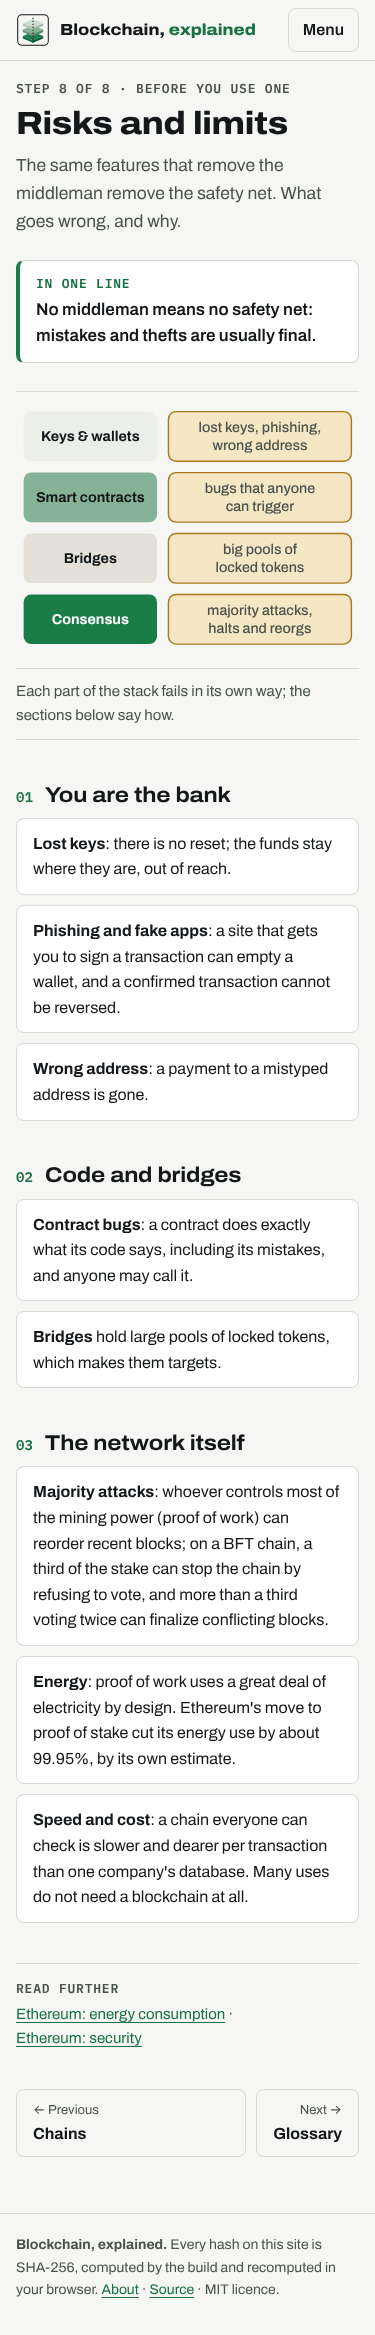
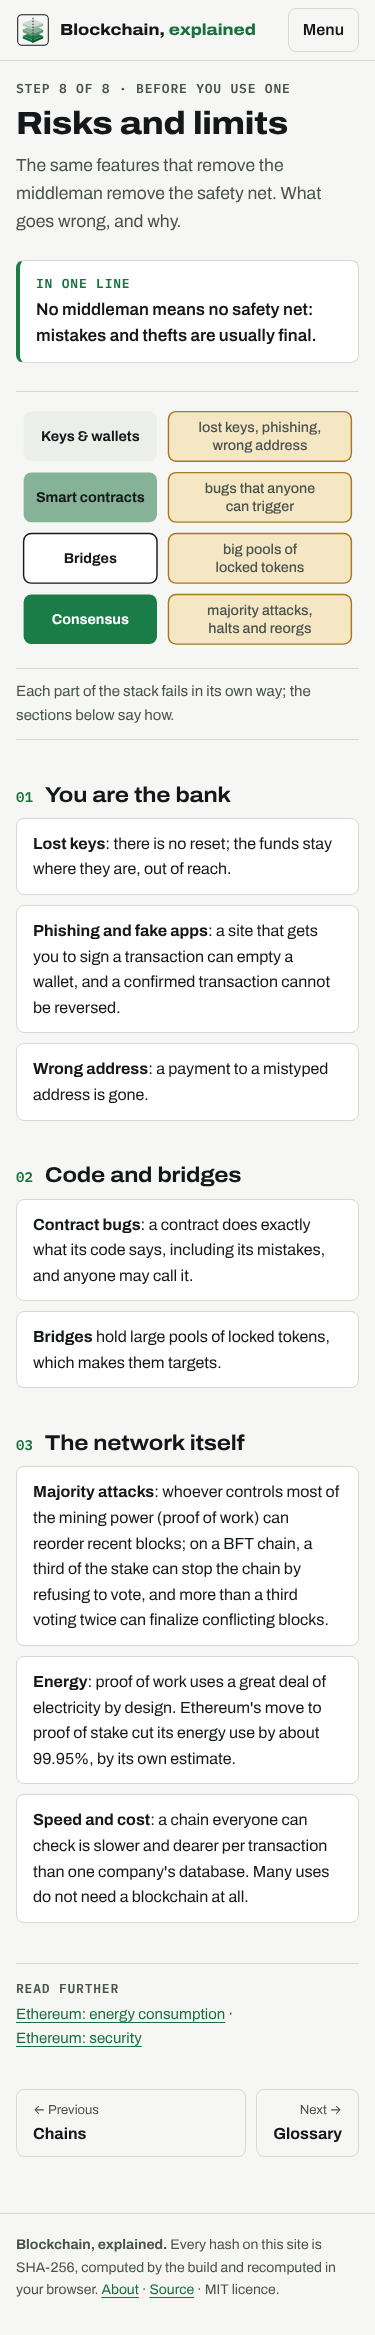
R8: all three seats pass; polish; stop test
Claude-Session: https://claude.ai/code/session_01Sp4uVaSfPTnARaHZUQe5XT

Changed region(s): [[0.0587, 0.2158, 0.44, 0.2775]]

diff --git a/site/index.html b/site/index.html
@@ -31,7 +31,7 @@
     <a class="start" href="blockchain-basics.html">Start with the basics →</a>
   </div>
   <svg class="hero-svg hero-wide" viewBox="0 0 780 560" role="group" aria-labelledby="hw-t"><title id="hw-t">Two blockchains, each a stack of four layers on one bedrock, joined by a bridge</title><defs><marker id="ah" viewBox="0 0 10 10" refX="8" refY="5" markerWidth="6" markerHeight="6" orient="auto-start-reverse"><path d="M0,0 L10,5 L0,10 z" class="ahead"/></marker></defs><a href="blockchain-basics.html" class="bedrock" aria-label="The bedrock: blocks, hashes, the chain and Merkle trees. Blockchain basics"><polygon points="40,446 740,446 760,504 20,504" class="br"/><text x="390" y="480" text-anchor="middle" class="br-t">Bedrock: blocks, hashes and Merkle trees → Basics</text></a><a href="consensus.html" class="slab s-consensus" aria-label="Chain A, Bottom level: Consensus. Many computers agree on one history: proof of work, proof of stake and BFT voting."><polygon points="85,380 205,426 205,444 85,398" class="sl-l"/><polygon points="205,426 325,380 325,398 205,444" class="sl-r"/><polygon points="85,380 205,334 325,380 205,426" class="sl-t"/><text class="sl-name" x="205" y="399.32" text-anchor="middle">Consensus</text></a><a href="contracts.html" class="slab s-execution" aria-label="Chain A, Second level: Smart contracts. Programs stored on the chain, run by every node with the same result."><polygon points="85,300 205,346 205,364 85,318" class="sl-l"/><polygon points="205,346 325,300 325,318 205,364" class="sl-r"/><polygon points="85,300 205,254 325,300 205,346" class="sl-t"/><text class="sl-name" x="205" y="319.32" text-anchor="middle">Smart contracts</text></a><a href="layer2.html" class="slab s-layer2" aria-label="Chain A, Third level: Layer 2. Rollups and channels: work done off the chain, settled on it."><polygon points="85,220 205,266 205,284 85,238" class="sl-l"/><polygon points="205,266 325,220 325,238 205,284" class="sl-r"/><polygon points="85,220 205,174 325,220 205,266" class="sl-t"/><text class="sl-name" x="205" y="239.32" text-anchor="middle">Layer 2</text></a><a href="keys.html" class="slab s-apps" aria-label="Chain A, Top level: Keys &amp; wallets. Keys that sign transactions, and the apps people use."><polygon points="85,140 205,186 205,204 85,158" class="sl-l"/><polygon points="205,186 325,140 325,158 205,204" class="sl-r"/><polygon points="85,140 205,94 325,140 205,186" class="sl-t"/><text class="sl-name" x="205" y="159.32" text-anchor="middle">Keys &amp; wallets</text></a><a href="consensus.html" class="slab s-consensus" aria-label="Chain B, Bottom level: Consensus. Many computers agree on one history: proof of work, proof of stake and BFT voting."><polygon points="455,380 575,426 575,444 455,398" class="sl-l"/><polygon points="575,426 695,380 695,398 575,444" class="sl-r"/><polygon points="455,380 575,334 695,380 575,426" class="sl-t"/><text class="sl-name" x="575" y="399.32" text-anchor="middle">Consensus</text></a><a href="contracts.html" class="slab s-execution" aria-label="Chain B, Second level: Smart contracts. Programs stored on the chain, run by every node with the same result."><polygon points="455,300 575,346 575,364 455,318" class="sl-l"/><polygon points="575,346 695,300 695,318 575,364" class="sl-r"/><polygon points="455,300 575,254 695,300 575,346" class="sl-t"/><text class="sl-name" x="575" y="319.32" text-anchor="middle">Smart contracts</text></a><a href="layer2.html" class="slab s-layer2" aria-label="Chain B, Third level: Layer 2. Rollups and channels: work done off the chain, settled on it."><polygon points="455,220 575,266 575,284 455,238" class="sl-l"/><polygon points="575,266 695,220 695,238 575,284" class="sl-r"/><polygon points="455,220 575,174 695,220 575,266" class="sl-t"/><text class="sl-name" x="575" y="239.32" text-anchor="middle">Layer 2</text></a><a href="keys.html" class="slab s-apps" aria-label="Chain B, Top level: Keys &amp; wallets. Keys that sign transactions, and the apps people use."><polygon points="455,140 575,186 575,204 455,158" class="sl-l"/><polygon points="575,186 695,140 695,158 575,204" class="sl-r"/><polygon points="455,140 575,94 695,140 575,186" class="sl-t"/><text class="sl-name" x="575" y="159.32" text-anchor="middle">Keys &amp; wallets</text></a><a href="bridges.html" class="bridge" aria-label="Bridges: how two chains pass messages and tokens"><path d="M319,306 L461,306" class="br-line" marker-start="url(#ah)" marker-end="url(#ah)"/><rect x="324" y="248" width="132" height="52" rx="26" class="br-pill"/><text x="390" y="279" text-anchor="middle" class="br-pt">Bridges →</text></a><text x="205" y="76" text-anchor="middle" class="ch">Chain A</text><text x="575" y="76" text-anchor="middle" class="ch">Chain B</text><path d="M100,134 L100,440" class="tx" marker-end="url(#ah)"/><text x="6" y="108" class="tx-t">a transaction</text><text x="6" y="128" class="tx-t">travels down</text></svg>
-  <svg class="hero-svg hero-narrow" viewBox="0 0 360 490" role="group" aria-labelledby="hn-t"><title id="hn-t">A blockchain as a stack of four layers on its bedrock, with a bridge to another chain</title><defs><marker id="ahn" viewBox="0 0 10 10" refX="8" refY="5" markerWidth="6" markerHeight="6" orient="auto-start-reverse"><path d="M0,0 L10,5 L0,10 z" class="ahead"/></marker></defs><a href="blockchain-basics.html" class="bedrock" aria-label="The bedrock: blocks, hashes, the chain and Merkle trees. Blockchain basics"><polygon points="8,429 352,429 360,487 0,487" class="br"/><text x="180" y="454" text-anchor="middle" class="br-t">Bedrock: blocks, hashes</text><text x="180" y="475" text-anchor="middle" class="br-t">and Merkle trees → Basics</text></a><a href="consensus.html" class="slab s-consensus" aria-label="Chain A, Bottom level: Consensus. Many computers agree on one history: proof of work, proof of stake and BFT voting."><polygon points="22,355 150,405 150,423 22,373" class="sl-l"/><polygon points="150,405 278,355 278,373 150,423" class="sl-r"/><polygon points="22,355 150,305 278,355 150,405" class="sl-t"/><text class="sl-name" x="150" y="376.0" text-anchor="middle">Consensus</text></a><a href="contracts.html" class="slab s-execution" aria-label="Chain A, Second level: Smart contracts. Programs stored on the chain, run by every node with the same result."><polygon points="22,271 150,321 150,339 22,289" class="sl-l"/><polygon points="150,321 278,271 278,289 150,339" class="sl-r"/><polygon points="22,271 150,221 278,271 150,321" class="sl-t"/><text class="sl-name" x="150" y="292.0" text-anchor="middle">Smart contracts</text></a><a href="layer2.html" class="slab s-layer2" aria-label="Chain A, Third level: Layer 2. Rollups and channels: work done off the chain, settled on it."><polygon points="22,187 150,237 150,255 22,205" class="sl-l"/><polygon points="150,237 278,187 278,205 150,255" class="sl-r"/><polygon points="22,187 150,137 278,187 150,237" class="sl-t"/><text class="sl-name" x="150" y="208.0" text-anchor="middle">Layer 2</text></a><a href="keys.html" class="slab s-apps" aria-label="Chain A, Top level: Keys &amp; wallets. Keys that sign transactions, and the apps people use."><polygon points="22,103 150,153 150,171 22,121" class="sl-l"/><polygon points="150,153 278,103 278,121 150,171" class="sl-r"/><polygon points="22,103 150,53 278,103 150,153" class="sl-t"/><text class="sl-name" x="150" y="124.0" text-anchor="middle">Keys &amp; wallets</text></a><a href="bridges.html" class="bridge" aria-label="Bridges: how chains pass messages and tokens"><path d="M274,275 L296,275" class="br-line" marker-end="url(#ahn)"/><rect x="298" y="249" width="60" height="56" rx="8" class="stub"/><text x="328" y="273" text-anchor="middle" class="stub-t">Chain</text><text x="328" y="293" text-anchor="middle" class="stub-t">B</text><rect x="262" y="313" width="96" height="44" rx="22" class="br-pill"/><text x="310" y="341" text-anchor="middle" class="br-pt">Bridges →</text></a><path d="M80,75 L80,421" class="tx" marker-end="url(#ahn)"/><text x="150" y="39" text-anchor="middle" class="ch">Chain A</text><text x="8" y="51" class="tx-t">a transaction</text><text x="8" y="68" class="tx-t">travels down</text></svg>
+  <svg class="hero-svg hero-narrow" viewBox="0 0 360 490" role="group" aria-labelledby="hn-t"><title id="hn-t">A blockchain as a stack of four layers on its bedrock, with a bridge to another chain</title><defs><marker id="ahn" viewBox="0 0 10 10" refX="8" refY="5" markerWidth="6" markerHeight="6" orient="auto-start-reverse"><path d="M0,0 L10,5 L0,10 z" class="ahead"/></marker></defs><a href="blockchain-basics.html" class="bedrock" aria-label="The bedrock: blocks, hashes, the chain and Merkle trees. Blockchain basics"><polygon points="8,429 352,429 360,487 0,487" class="br"/><text x="180" y="454" text-anchor="middle" class="br-t">Bedrock: blocks, hashes</text><text x="180" y="475" text-anchor="middle" class="br-t">and Merkle trees → Basics</text></a><a href="consensus.html" class="slab s-consensus" aria-label="Chain A, Bottom level: Consensus. Many computers agree on one history: proof of work, proof of stake and BFT voting."><polygon points="22,355 150,405 150,423 22,373" class="sl-l"/><polygon points="150,405 278,355 278,373 150,423" class="sl-r"/><polygon points="22,355 150,305 278,355 150,405" class="sl-t"/><text class="sl-name" x="150" y="376.0" text-anchor="middle">Consensus</text></a><a href="contracts.html" class="slab s-execution" aria-label="Chain A, Second level: Smart contracts. Programs stored on the chain, run by every node with the same result."><polygon points="22,271 150,321 150,339 22,289" class="sl-l"/><polygon points="150,321 278,271 278,289 150,339" class="sl-r"/><polygon points="22,271 150,221 278,271 150,321" class="sl-t"/><text class="sl-name" x="150" y="292.0" text-anchor="middle">Smart contracts</text></a><a href="layer2.html" class="slab s-layer2" aria-label="Chain A, Third level: Layer 2. Rollups and channels: work done off the chain, settled on it."><polygon points="22,187 150,237 150,255 22,205" class="sl-l"/><polygon points="150,237 278,187 278,205 150,255" class="sl-r"/><polygon points="22,187 150,137 278,187 150,237" class="sl-t"/><text class="sl-name" x="150" y="208.0" text-anchor="middle">Layer 2</text></a><a href="keys.html" class="slab s-apps" aria-label="Chain A, Top level: Keys &amp; wallets. Keys that sign transactions, and the apps people use."><polygon points="22,103 150,153 150,171 22,121" class="sl-l"/><polygon points="150,153 278,103 278,121 150,171" class="sl-r"/><polygon points="22,103 150,53 278,103 150,153" class="sl-t"/><text class="sl-name" x="150" y="124.0" text-anchor="middle">Keys &amp; wallets</text></a><a href="bridges.html" class="bridge" aria-label="Bridges: how chains pass messages and tokens"><path d="M274,275 L284,275" class="br-line" marker-end="url(#ahn)"/><rect x="286" y="253" width="72" height="44" rx="8" class="stub"/><text x="322" y="281" text-anchor="middle" class="stub-t">Chain B</text><rect x="272" y="313" width="86" height="44" rx="22" class="br-pill"/><text x="315" y="341" text-anchor="middle" class="br-pt">Bridges →</text></a><path d="M80,75 L80,421" class="tx" marker-end="url(#ahn)"/><text x="150" y="39" text-anchor="middle" class="ch">Chain A</text><text x="8" y="51" class="tx-t">a transaction</text><text x="8" y="68" class="tx-t">travels down</text></svg>
 </section>
 <section class="home-sec" aria-labelledby="guide">
   <h2 id="guide">The guide, in reading order</h2>

diff --git a/site/css/site.css b/site/css/site.css
@@ -368,3 +368,8 @@ h1,h2,.card-t{text-wrap:balance}
 .mn-br{stroke-dasharray:none;stroke-width:1.5}
 .fg-lv.s-bridge{fill:var(--bed);stroke:none}
 .side-toc a{justify-content:flex-start}
+/* R8 polish */
+.fg-lv.s-bridge{fill:var(--panel);stroke:var(--ink);stroke-width:1.5}
+.stub-t{font-size:16px}
+.side-toc ol:not(:has(span)){display:grid;grid-template-columns:repeat(4,44px);gap:6px}
+.side-toc ol:not(:has(span)) a{justify-content:center;border:1px solid var(--rule);border-radius:8px;font-weight:700}

diff --git a/_src/build.py b/_src/build.py
@@ -163,11 +163,11 @@ def hero_narrow():
          f'<text x="180" y="{base + 120}" text-anchor="middle" class="br-t">and Merkle trees → Basics</text></a>',
          a,
          f'<a href="bridges.html" class="bridge" aria-label="Bridges: how chains pass messages and tokens">'
-         f'<path d="M{150 + hw - 4},{fy + 4} L296,{fy + 4}" class="br-line" marker-end="url(#ahn)"/>'
-         f'<rect x="298" y="{fy - 22}" width="60" height="56" rx="8" class="stub"/>'
-         f'<text x="328" y="{fy + 2}" text-anchor="middle" class="stub-t">Chain</text><text x="328" y="{fy + 22}" text-anchor="middle" class="stub-t">B</text>'
-         f'<rect x="262" y="{fy + 42}" width="96" height="44" rx="22" class="br-pill"/>'
-         f'<text x="310" y="{fy + 70}" text-anchor="middle" class="br-pt">Bridges →</text></a>',
+         f'<path d="M{150 + hw - 4},{fy + 4} L284,{fy + 4}" class="br-line" marker-end="url(#ahn)"/>'
+         f'<rect x="286" y="{fy - 18}" width="72" height="44" rx="8" class="stub"/>'
+         f'<text x="322" y="{fy + 10}" text-anchor="middle" class="stub-t">Chain B</text>'
+         f'<rect x="272" y="{fy + 42}" width="86" height="44" rx="22" class="br-pill"/>'
+         f'<text x="315" y="{fy + 70}" text-anchor="middle" class="br-pt">Bridges →</text></a>',
          f'<path d="M80,{ys[-1] - hh + 22} L80,{base + 66}" class="tx" marker-end="url(#ahn)"/>',
          f'<text x="150" y="{ys[-1] - hh - 14}" text-anchor="middle" class="ch">Chain A</text>',
          f'<text x="8" y="{ys[-1] - hh - 2}" class="tx-t">a transaction</text>',

diff --git a/DESIGN-LOG.md b/DESIGN-LOG.md
@@ -237,12 +237,28 @@ Step 2g re-measure after R6: 16 pages at 1280x800, 375x812, 390x844 and 320x640,
 
 Step 2g re-measure after R7: 128 combinations, no overflow, no small text or target, no SVG label clipped, overlapping a box, or under 12 px.
 
+### Panel, WHOLE, round R8 (final pass; verdicts in panel/R8-v2/)
+| Critic | Anchor used | Observed in the work | Verdict PASS/OBJECT | Requested change |
+|---|---|---|---|---|
+| Critic: Formalist (Greenberg) | Modernist Painting (Clement Greenberg): the medium earns its authority by being exactly itself, so the flat plane, the grid and the type have to be exact. | Checked on the live build. All eight R7 items are resolved. The Consensus figure sets "A CHEATER'S / REWRITE" on two lines clear of the Block 3′ box, and its chain arrows are 12 units with room around them (1280 and 375). The sign demo has one left edge, with numbered labels, inputs, buttons and hints all at the same x. The mini-map connector is solid and reaches the Bridges box. The Bridges figure boxes have clear margins. The Risks level boxes share one width and style, and Bridges no longer reads as selected. The Chains lede uses a non-breaking hyphen ("well‑known"). The glossary letters sit on the sidebar edge. The Contracts state box is set in one typeface. The phone hero uses the same "Bridges →" and bedrock wording as desktop. Together with the R6 fixes (one content edge, a stable nav, aligned cards, 32/32 hashes, 15 px figure labels), nothing left is something a careful designer would refuse to ship. | PASS | Optional polish only (below). The Autheo/About pager deferral is accepted: those pages sit outside the reading order. |
+| Critic: Usability (Krug) | Don't Make Me Think (Steve Krug): self-evident navigation, clear feedback, no question marks | I re-tested at 1280x800 and 375x812 with touch, with no script errors. **Consensus figure:** "A cheater's rewrite" is on two lines, left of "Block 3′", and nothing covers it at either width. A programmatic check found no text box overlapping a shape. **Mine demo:** Zeros needed is limited to 1–4. During mining, Block data, Zeros and Mine are locked and a Stop button appears (it is hidden when idle). Stop gives "Stopped after 23,808 guesses, with no match yet" and unlocks the inputs. Four zeros take about 1.1 s and end with "Found after 44,765 guesses for 4 zeros". All R6 and R7 items are now resolved. | PASS | None blocking. One optional polish: if someone types 5 into Zeros needed, the box keeps showing 5 while the demo mines for 4 zeros (the result does say "for 4 zeros"). Snap the box to 4 on blur, or show "1 to 4 zeros" the way the validator calculator does. |
+| Critic: Evidence (Tufte) | The Visual Display of Quantitative Information (Edward Tufte): data-ink, graphical integrity, labels placed on the data, no claim without evidence | Re-checked all 8 figures and the sidebar map live at 1280, 375 and 320, light and dark, measuring text with getBBox. No label is clipped or overlaps a box, and the smallest label is 14.3 px at 375 (12 px at 320). fork_fig now matches its text: four honest blocks, and a dashed rewrite that branches from Block 2 and is one block behind. The heading on two lines clears the Block 3′ box (x 8–117 against 188), and the two methods read as parallel lines. In risks_fig the arrows are gone, "halts and reorgs" replaces "energy use", and the caption claims only what is drawn. The R6 fixes all still hold: chain, keys, validator grid (hollow red for faulty), contracts, rollup, bridges, and the map's ▶/▼ pointers and attached bridge line. | PASS | None required. One optional point below. |
+
+#### Resolutions, round R8
+| Finding | Resolution |
+|---|---|
+| Krug: "the zeros box can show 5 while mining 4" | ADAPT: the field snaps to the value mined |
+| Tufte: "Bridges in the risks figure uses the bedrock grey" | ADAPT: panel fill with an ink outline, as on the map |
+| Greenberg: "the phone pill touches the Consensus slab; 'Chain / B' reads as an accident" | ADAPT: pill moved; "Chain B" on one line in a 72-unit box |
+| Greenberg: "the glossary letters make a tall sparse column" | ADAPT: a four-column grid of 44 px cells |
+
 ## Stop test
-- **S1** met: every objection in R0–R4 is ADOPT or ADAPT, or carried forward with a reason (Escape on the menu, the bedrock's projection, the two left edges, the Autheo source page).
-- **S2** met in part. Last verdicts: Holmes PASS (R4). Shklovsky and Greenberg OBJECT in R4, each on a single regression that was fixed and measured after. Cairo, Krug and Sharp OBJECT in R1, and Debord, Tufte and Mace in R2; every finding was applied and re-measured, but those seats did not sit again. No round had every seat pass. **Not fully met.**
-- **S3 NOT met**: every round produced changes.
-- **S4** met: the M2 break (two stacks bridged across the grid) stayed the landing graphic through every round, and R3 Shklovsky passed it as "not stock crypto imagery".
-- **S5**: `wcag -.-> albers` applied: the slab ramp was chosen by value and then corrected by measurement (R1, #1a7d47).
+For the redo (M6, R6 to R8), after the owner's B- on the R0–R5 site:
+- **S1** met: every finding is ADAPT, or DEFERRED with a reason (no figure on Chains, where the table is the figure, nor on Autheo and About; no pager on the two pages outside the reading order).
+- **S2** met for the redo panel: Greenberg, Krug and Tufte all PASS in R8, each after re-checking their own earlier objections on the live build. The R0–R5 seats did not sit again after M6; their findings were carried into the redo unchanged.
+- **S3** met in R8 for blocking findings: the R8 changes were optional polish named by the passing seats.
+- **S4**: the stack-and-bridge landing graphic was kept through the redo; the push in M6 went to legibility (one figure per page), not ink.
+- **S5**: `wcag -.-> albers` applied again: the validator grid stopped relying on red against green (R6).
 
 ## Compliance Check
 - [x] Traversal plan, seed anchors with exact labels, Frontier, moves M1–M4 with anchors
